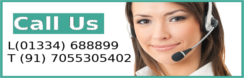
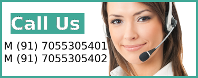
last commit. project completed

diff --git a/WebContent/vision-mission.html b/WebContent/vision-mission.html
@@ -283,16 +283,16 @@
 						<div id="fter_DIV_44">
 							<h3 id="fter_H3_45">GET IN TOUCH</h3>
 							<p id="fter_P_46">
-								<strong id="fter_STRONG_47">L(01334)</strong> 688899 <br
-									id="fter_BR_48" /> <strong id="fter_STRONG_49">T (91)</strong>
-								7055305402<br id="fter_BR_50" /> <br id="fter_BR_51" /> Email:
-								<a href="contact.html" id="fter_A_52">info@apselectra.in</a> <br />Email:
-								<a href="contact.html" id="fter_A_52">sales@apselectra.in</a>
+								<strong id="fter_STRONG_49">M (91)</strong>	7055305401<br id="fter_BR_50" />
+								<strong id="fter_STRONG_49">M (91)</strong>	7055305402<br id="fter_BR_50" /> 
+								
+								<br id="fter_BR_51" /> 
+								Email:	<a href="contact.html" id="fter_A_52">apselectrapower@gmail.com</a> <br />
+								Email:	<a href="contact.html" id="fter_A_52">info@apselectra.in</a> <br />
+								Email: 	<a href="contact.html" id="fter_A_52">sales@apselectra.in</a>
 
 							</p>
-
-						</div>
-						<div id="fter_DIV_1">
+							<div id="fter_DIV_1">
 							<br />
 								<h3 id="fter_H3_45">Follow Us</h3>
 								
@@ -306,6 +306,8 @@
 									title="Follow APSElectra on LinkedIn" ><img src="images/social-media/if_LinkedIn_3138898.png" style="height:25px"/></a>
 								
 							</div>
+
+						</div>
 
 					</div>
 				</div>

diff --git a/WebContent/index.html b/WebContent/index.html
@@ -90,7 +90,7 @@
 			
 			<div align="right" style="    margin-right: -185px;">
 				<h1>
-					<img src="images/final.png" ></img>
+					<img src="images/final.png" style="height: 78px;width: 244px"></img>
 				</h1>
 			</div>
 
@@ -839,11 +839,13 @@
 						<div id="fter_DIV_44">
 							<h3 id="fter_H3_45">GET IN TOUCH</h3>
 							<p id="fter_P_46">
-								<strong id="fter_STRONG_47">L(01334)</strong> 688899 <br
-									id="fter_BR_48" /> <strong id="fter_STRONG_49">T (91)</strong>
-								7055305402<br id="fter_BR_50" /> <br id="fter_BR_51" /> Email:
-								<a href="contact.html" id="fter_A_52">info@apselectra.in</a> <br />Email:
-								<a href="contact.html" id="fter_A_52">sales@apselectra.in</a>
+								<strong id="fter_STRONG_49">M (91)</strong>	7055305401<br id="fter_BR_50" />
+								<strong id="fter_STRONG_49">M (91)</strong>	7055305402<br id="fter_BR_50" /> 
+								
+								<br id="fter_BR_51" /> 
+								Email:	<a href="contact.html" id="fter_A_52">apselectrapower@gmail.com</a> <br />
+								Email:	<a href="contact.html" id="fter_A_52">info@apselectra.in</a> <br />
+								Email: 	<a href="contact.html" id="fter_A_52">sales@apselectra.in</a>
 
 							</p>
 							<div id="fter_DIV_1">

diff --git a/WebContent/contact.html b/WebContent/contact.html
@@ -220,7 +220,7 @@
 							Haridwar - 249403
 						</p>
 
-						Tel: 01334-688899<br /> Mob: 7055305402
+						 Mob: 7055305401 <br /> Mob: 7055305402
 					</div>
 
 					<div class="cleaner"></div>
@@ -299,11 +299,13 @@
 						<div id="fter_DIV_44">
 							<h3 id="fter_H3_45">GET IN TOUCH</h3>
 							<p id="fter_P_46">
-								<strong id="fter_STRONG_47">L(01334)</strong> 688899 <br
-									id="fter_BR_48" /> <strong id="fter_STRONG_49">T (91)</strong>
-								7055305402<br id="fter_BR_50" /> <br id="fter_BR_51" /> Email:
-								<a href="contact.html" id="fter_A_52">info@apselectra.in</a> <br />Email:
-								<a href="contact.html" id="fter_A_52">sales@apselectra.in</a>
+								<strong id="fter_STRONG_49">M (91)</strong>	7055305401<br id="fter_BR_50" />
+								<strong id="fter_STRONG_49">M (91)</strong>	7055305402<br id="fter_BR_50" /> 
+								
+								<br id="fter_BR_51" /> 
+								Email:	<a href="contact.html" id="fter_A_52">apselectrapower@gmail.com</a> <br />
+								Email:	<a href="contact.html" id="fter_A_52">info@apselectra.in</a> <br />
+								Email: 	<a href="contact.html" id="fter_A_52">sales@apselectra.in</a>
 
 							</p>
 							<div id="fter_DIV_1">

diff --git a/WebContent/led-hibay-light.html b/WebContent/led-hibay-light.html
@@ -363,12 +363,14 @@
 					<div id="fter_DIV_43">
 						<div id="fter_DIV_44">
 							<h3 id="fter_H3_45">GET IN TOUCH</h3>
-							<p id="fter_P_46">
-								<strong id="fter_STRONG_47">L(01334)</strong> 688899 <br
-									id="fter_BR_48" /> <strong id="fter_STRONG_49">T (91)</strong>
-								7055305402<br id="fter_BR_50" /> <br id="fter_BR_51" /> Email:
-								<a href="contact.html" id="fter_A_52">info@apselectra.in</a> <br />Email:
-								<a href="contact.html" id="fter_A_52">sales@apselectra.in</a>
+						<p id="fter_P_46">
+								<strong id="fter_STRONG_49">M (91)</strong>	7055305401<br id="fter_BR_50" />
+								<strong id="fter_STRONG_49">M (91)</strong>	7055305402<br id="fter_BR_50" /> 
+								
+								<br id="fter_BR_51" /> 
+								Email:	<a href="contact.html" id="fter_A_52">apselectrapower@gmail.com</a> <br />
+								Email:	<a href="contact.html" id="fter_A_52">info@apselectra.in</a> <br />
+								Email: 	<a href="contact.html" id="fter_A_52">sales@apselectra.in</a>
 
 							</p>
 							<div id="fter_DIV_1">

diff --git a/WebContent/about-us.html b/WebContent/about-us.html
@@ -287,11 +287,13 @@
 						<div id="fter_DIV_44">
 							<h3 id="fter_H3_45">GET IN TOUCH</h3>
 							<p id="fter_P_46">
-								<strong id="fter_STRONG_47">L(01334)</strong> 688899 <br
-									id="fter_BR_48" /> <strong id="fter_STRONG_49">T (91)</strong>
-								7055305402<br id="fter_BR_50" /> <br id="fter_BR_51" /> Email:
-								<a href="contact.html" id="fter_A_52">info@apselectra.in</a> <br />Email:
-								<a href="contact.html" id="fter_A_52">sales@apselectra.in</a>
+								<strong id="fter_STRONG_49">M (91)</strong>	7055305401<br id="fter_BR_50" />
+								<strong id="fter_STRONG_49">M (91)</strong>	7055305402<br id="fter_BR_50" /> 
+								
+								<br id="fter_BR_51" /> 
+								Email:	<a href="contact.html" id="fter_A_52">apselectrapower@gmail.com</a> <br />
+								Email:	<a href="contact.html" id="fter_A_52">info@apselectra.in</a> <br />
+								Email: 	<a href="contact.html" id="fter_A_52">sales@apselectra.in</a>
 
 							</p>
 							<div id="fter_DIV_1">

diff --git a/WebContent/gallery.html b/WebContent/gallery.html
@@ -241,11 +241,13 @@
 						<div id="fter_DIV_44">
 							<h3 id="fter_H3_45">GET IN TOUCH</h3>
 							<p id="fter_P_46">
-								<strong id="fter_STRONG_47">L(01334)</strong> 688899 <br
-									id="fter_BR_48" /> <strong id="fter_STRONG_49">T (91)</strong>
-								7055305402<br id="fter_BR_50" /> <br id="fter_BR_51" /> Email:
-								<a href="contact.html" id="fter_A_52">info@apselectra.in</a> <br />Email:
-								<a href="contact.html" id="fter_A_52">sales@apselectra.in</a>
+								<strong id="fter_STRONG_49">M (91)</strong>	7055305401<br id="fter_BR_50" />
+								<strong id="fter_STRONG_49">M (91)</strong>	7055305402<br id="fter_BR_50" /> 
+								
+								<br id="fter_BR_51" /> 
+								Email:	<a href="contact.html" id="fter_A_52">apselectrapower@gmail.com</a> <br />
+								Email:	<a href="contact.html" id="fter_A_52">info@apselectra.in</a> <br />
+								Email: 	<a href="contact.html" id="fter_A_52">sales@apselectra.in</a>
 
 							</p>
 							<div id="fter_DIV_1">

diff --git a/WebContent/led-acid-solar-street-light.html b/WebContent/led-acid-solar-street-light.html
@@ -744,11 +744,13 @@
 						<div id="fter_DIV_44">
 							<h3 id="fter_H3_45">GET IN TOUCH</h3>
 							<p id="fter_P_46">
-								<strong id="fter_STRONG_47">L(01334)</strong> 688899 <br
-									id="fter_BR_48" /> <strong id="fter_STRONG_49">T (91)</strong>
-								7055305402<br id="fter_BR_50" /> <br id="fter_BR_51" /> Email:
-								<a href="contact.html" id="fter_A_52">info@apselectra.in</a> <br />Email:
-								<a href="contact.html" id="fter_A_52">sales@apselectra.in</a>
+								<strong id="fter_STRONG_49">M (91)</strong>	7055305401<br id="fter_BR_50" />
+								<strong id="fter_STRONG_49">M (91)</strong>	7055305402<br id="fter_BR_50" /> 
+								
+								<br id="fter_BR_51" /> 
+								Email:	<a href="contact.html" id="fter_A_52">apselectrapower@gmail.com</a> <br />
+								Email:	<a href="contact.html" id="fter_A_52">info@apselectra.in</a> <br />
+								Email: 	<a href="contact.html" id="fter_A_52">sales@apselectra.in</a>
 
 							</p>
 							<div id="fter_DIV_1">

diff --git a/WebContent/led-blub.html b/WebContent/led-blub.html
@@ -374,11 +374,13 @@
 						<div id="fter_DIV_44">
 							<h3 id="fter_H3_45">GET IN TOUCH</h3>
 							<p id="fter_P_46">
-								<strong id="fter_STRONG_47">L(01334)</strong> 688899 <br
-									id="fter_BR_48" /> <strong id="fter_STRONG_49">T (91)</strong>
-								7055305402<br id="fter_BR_50" /> <br id="fter_BR_51" /> Email:
-								<a href="contact.html" id="fter_A_52">info@apselectra.in</a> <br />Email:
-								<a href="contact.html" id="fter_A_52">sales@apselectra.in</a>
+								<strong id="fter_STRONG_49">M (91)</strong>	7055305401<br id="fter_BR_50" />
+								<strong id="fter_STRONG_49">M (91)</strong>	7055305402<br id="fter_BR_50" /> 
+								
+								<br id="fter_BR_51" /> 
+								Email:	<a href="contact.html" id="fter_A_52">apselectrapower@gmail.com</a> <br />
+								Email:	<a href="contact.html" id="fter_A_52">info@apselectra.in</a> <br />
+								Email: 	<a href="contact.html" id="fter_A_52">sales@apselectra.in</a>
 
 							</p>
 							<div id="fter_DIV_1">

diff --git a/WebContent/led-cob-light.html b/WebContent/led-cob-light.html
@@ -363,11 +363,13 @@
 						<div id="fter_DIV_44">
 							<h3 id="fter_H3_45">GET IN TOUCH</h3>
 							<p id="fter_P_46">
-								<strong id="fter_STRONG_47">L(01334)</strong> 688899 <br
-									id="fter_BR_48" /> <strong id="fter_STRONG_49">T (91)</strong>
-								7055305402<br id="fter_BR_50" /> <br id="fter_BR_51" /> Email:
-								<a href="contact.html" id="fter_A_52">info@apselectra.in</a> <br />Email:
-								<a href="contact.html" id="fter_A_52">sales@apselectra.in</a>
+								<strong id="fter_STRONG_49">M (91)</strong>	7055305401<br id="fter_BR_50" />
+								<strong id="fter_STRONG_49">M (91)</strong>	7055305402<br id="fter_BR_50" /> 
+								
+								<br id="fter_BR_51" /> 
+								Email:	<a href="contact.html" id="fter_A_52">apselectrapower@gmail.com</a> <br />
+								Email:	<a href="contact.html" id="fter_A_52">info@apselectra.in</a> <br />
+								Email: 	<a href="contact.html" id="fter_A_52">sales@apselectra.in</a>
 
 							</p>
 							<div id="fter_DIV_1">

diff --git a/WebContent/led-concealed-light.html b/WebContent/led-concealed-light.html
@@ -353,11 +353,13 @@
 						<div id="fter_DIV_44">
 							<h3 id="fter_H3_45">GET IN TOUCH</h3>
 							<p id="fter_P_46">
-								<strong id="fter_STRONG_47">L(01334)</strong> 688899 <br
-									id="fter_BR_48" /> <strong id="fter_STRONG_49">T (91)</strong>
-								7055305402<br id="fter_BR_50" /> <br id="fter_BR_51" /> Email:
-								<a href="contact.html" id="fter_A_52">info@apselectra.in</a> <br />Email:
-								<a href="contact.html" id="fter_A_52">sales@apselectra.in</a>
+								<strong id="fter_STRONG_49">M (91)</strong>	7055305401<br id="fter_BR_50" />
+								<strong id="fter_STRONG_49">M (91)</strong>	7055305402<br id="fter_BR_50" /> 
+								
+								<br id="fter_BR_51" /> 
+								Email:	<a href="contact.html" id="fter_A_52">apselectrapower@gmail.com</a> <br />
+								Email:	<a href="contact.html" id="fter_A_52">info@apselectra.in</a> <br />
+								Email: 	<a href="contact.html" id="fter_A_52">sales@apselectra.in</a>
 
 							</p>
 							<div id="fter_DIV_1">

diff --git a/WebContent/led-flood-light.html b/WebContent/led-flood-light.html
@@ -367,11 +367,13 @@
 						<div id="fter_DIV_44">
 							<h3 id="fter_H3_45">GET IN TOUCH</h3>
 							<p id="fter_P_46">
-								<strong id="fter_STRONG_47">L(01334)</strong> 688899 <br
-									id="fter_BR_48" /> <strong id="fter_STRONG_49">T (91)</strong>
-								7055305402<br id="fter_BR_50" /> <br id="fter_BR_51" /> Email:
-								<a href="contact.html" id="fter_A_52">info@apselectra.in</a> <br />Email:
-								<a href="contact.html" id="fter_A_52">sales@apselectra.in</a>
+								<strong id="fter_STRONG_49">M (91)</strong>	7055305401<br id="fter_BR_50" />
+								<strong id="fter_STRONG_49">M (91)</strong>	7055305402<br id="fter_BR_50" /> 
+								
+								<br id="fter_BR_51" /> 
+								Email:	<a href="contact.html" id="fter_A_52">apselectrapower@gmail.com</a> <br />
+								Email:	<a href="contact.html" id="fter_A_52">info@apselectra.in</a> <br />
+								Email: 	<a href="contact.html" id="fter_A_52">sales@apselectra.in</a>
 
 							</p>
 							<div id="fter_DIV_1">

diff --git a/WebContent/led-industrial-blub.html b/WebContent/led-industrial-blub.html
@@ -362,11 +362,13 @@
 						<div id="fter_DIV_44">
 							<h3 id="fter_H3_45">GET IN TOUCH</h3>
 							<p id="fter_P_46">
-								<strong id="fter_STRONG_47">L(01334)</strong> 688899 <br
-									id="fter_BR_48" /> <strong id="fter_STRONG_49">T (91)</strong>
-								7055305402<br id="fter_BR_50" /> <br id="fter_BR_51" /> Email:
-								<a href="contact.html" id="fter_A_52">info@apselectra.in</a> <br />Email:
-								<a href="contact.html" id="fter_A_52">sales@apselectra.in</a>
+								<strong id="fter_STRONG_49">M (91)</strong>	7055305401<br id="fter_BR_50" />
+								<strong id="fter_STRONG_49">M (91)</strong>	7055305402<br id="fter_BR_50" /> 
+								
+								<br id="fter_BR_51" /> 
+								Email:	<a href="contact.html" id="fter_A_52">apselectrapower@gmail.com</a> <br />
+								Email:	<a href="contact.html" id="fter_A_52">info@apselectra.in</a> <br />
+								Email: 	<a href="contact.html" id="fter_A_52">sales@apselectra.in</a>
 
 							</p>
 							<div id="fter_DIV_1">
